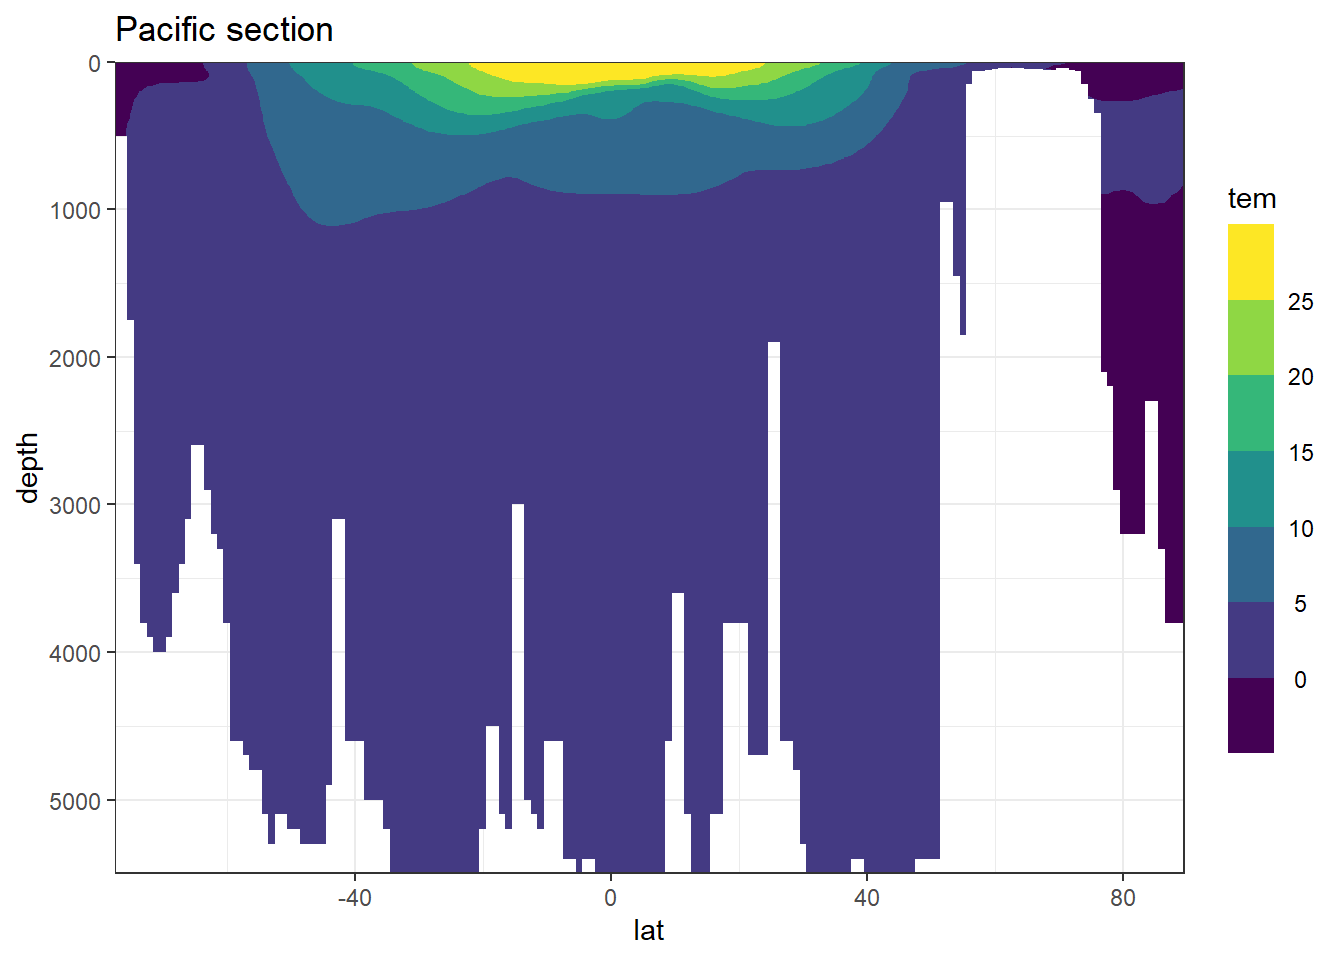
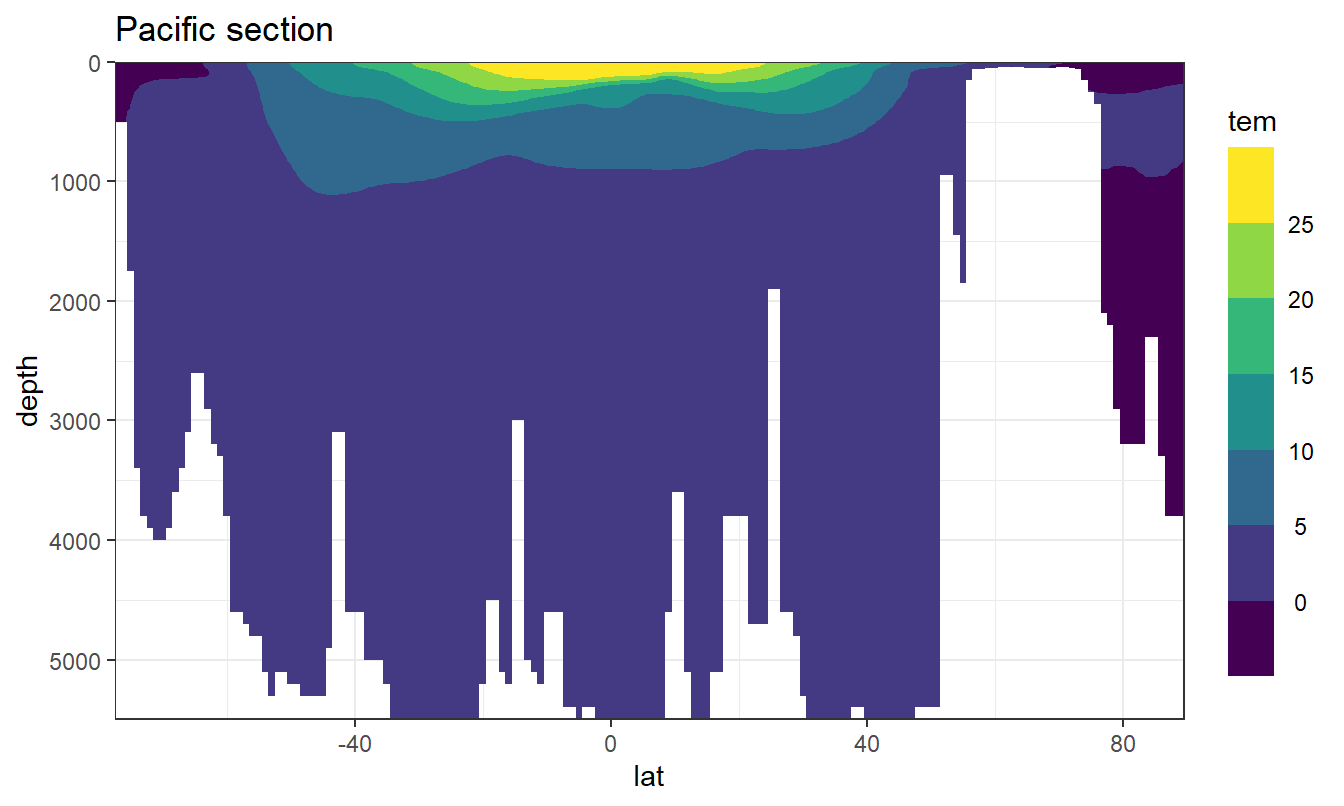
Build site.

diff --git a/docs/read_World_Ocean_Atlas_2018.html b/docs/read_World_Ocean_Atlas_2018.html
@@ -570,16 +570,16 @@ This reproducible <a href="http://rmarkdown.rstudio.com">R Markdown</a> analysis
 <div class="panel panel-default">
 <div class="panel-heading">
 <p class="panel-title">
-<a data-toggle="collapse" data-parent="#workflowr-checks" href="#strongRepositoryversionstrongahrefhttpsgithubcomjensdanielmuellerCanteMLRtreecfbc5e4befc91903529c86cd2367241f10a783datargetblankcfbc5e4a"> <span class="glyphicon glyphicon-ok text-success" aria-hidden="true"></span> <strong>Repository version:</strong> <a href="https://github.com/jens-daniel-mueller/Cant_eMLR/tree/cfbc5e4befc91903529c86cd2367241f10a783da" target="_blank">cfbc5e4</a> </a>
+<a data-toggle="collapse" data-parent="#workflowr-checks" href="#strongRepositoryversionstrongahrefhttpsgithubcomjensdanielmuellerCanteMLRtree5d4598160dff9ddc8596674983c74e0680c9ce62targetblank5d45981a"> <span class="glyphicon glyphicon-ok text-success" aria-hidden="true"></span> <strong>Repository version:</strong> <a href="https://github.com/jens-daniel-mueller/Cant_eMLR/tree/5d4598160dff9ddc8596674983c74e0680c9ce62" target="_blank">5d45981</a> </a>
 </p>
 </div>
[2 lines of base64/hex data omitted]
 <div class="panel-body">
 <p>
 Great! You are using Git for version control. Tracking code development and connecting the code version to the results is critical for reproducibility.
 </p>
 <p>
-The results in this page were generated with repository version <a href="https://github.com/jens-daniel-mueller/Cant_eMLR/tree/cfbc5e4befc91903529c86cd2367241f10a783da" target="_blank">cfbc5e4</a>. See the <em>Past versions</em> tab to see a history of the changes made to the R Markdown and HTML files.
+The results in this page were generated with repository version <a href="https://github.com/jens-daniel-mueller/Cant_eMLR/tree/5d4598160dff9ddc8596674983c74e0680c9ce62" target="_blank">5d45981</a>. See the <em>Past versions</em> tab to see a history of the changes made to the R Markdown and HTML files.
 </p>
 <p>
 Note that you need to be careful to ensure that all relevant files for the analysis have been committed to Git prior to generating the results (you can use <code>wflow_publish</code> or <code>wflow_git_commit</code>). workflowr only checks the R Markdown file, but you know if there are other scripts or data files that it depends on. Below is the status of the Git repository when the results were generated:
@@ -643,6 +643,40 @@ Message
 </tr>
 </thead>
 <tbody>
+<tr>
+<td>
+Rmd
+</td>
+<td>
+<a href="https://github.com/jens-daniel-mueller/Cant_eMLR/blob/5d4598160dff9ddc8596674983c74e0680c9ce62/analysis/read_World_Ocean_Atlas_2018.Rmd" target="_blank">5d45981</a>
+</td>
+<td>
+jens-daniel-mueller
+</td>
+<td>
+2020-08-11
+</td>
+<td>
+plot sal sections from function both basins
+</td>
+</tr>
+<tr>
+<td>
+html
+</td>
+<td>
+<a href="https://rawcdn.githack.com/jens-daniel-mueller/Cant_eMLR/495debba777d653e30a3059e54b0a2686b9c7ae2/docs/read_World_Ocean_Atlas_2018.html" target="_blank">495debb</a>
+</td>
+<td>
+jens-daniel-mueller
+</td>
+<td>
+2020-08-11
+</td>
+<td>
+Build site.
+</td>
+</tr>
 <tr>
 <td>
 Rmd
@@ -1882,16 +1916,8 @@ rm(WOA_sal, WOA_tem)</code></pre>
 map_climatology(WOA_tem_tibble, &quot;tem&quot;)</code></pre>
 <p><img src="figure/read_World_Ocean_Atlas_2018.Rmd/temperature_surface_WOA18_map-1.png" width="672" style="display: block; margin: auto;" /></p>
 </div>
-<div id="section" class="section level3">
-<h3><span class="header-section-number">3.2.2</span> Section</h3>
-<pre class="r"><code>WOA_tem_tibble %&gt;% 
-  filter(lon == parameters$lon_Atl_section) %&gt;% 
-  ggplot(aes(lat, depth, z = tem)) +
-  geom_contour_filled() +
-  scale_y_reverse() +
-  coord_cartesian(expand = 0) +
-  theme(legend.position = &quot;top&quot;)</code></pre>
-<p><img src="figure/read_World_Ocean_Atlas_2018.Rmd/temperature_section_WOA18_map-1.png" width="672" style="display: block; margin: auto;" /></p>
+<div id="sections" class="section level3">
+<h3><span class="header-section-number">3.2.2</span> Sections</h3>
 <pre class="r"><code>section_climatology_Atl(WOA_tem_tibble, &quot;tem&quot;)</code></pre>
 <p><img src="figure/read_World_Ocean_Atlas_2018.Rmd/temperature_section_WOA18_Atl-1.png" width="672" style="display: block; margin: auto;" /></p>
 <pre class="r"><code>section_climatology_Pac(WOA_tem_tibble, &quot;tem&quot;)</code></pre>
@@ -1905,16 +1931,12 @@ map_climatology(WOA_tem_tibble, &quot;tem&quot;)</code></pre>
 <pre class="r"><code>map_climatology(WOA_sal_tibble, &quot;sal&quot;)</code></pre>
 <p><img src="figure/read_World_Ocean_Atlas_2018.Rmd/salinity_surface_WOA18_map-1.png" width="672" style="display: block; margin: auto;" /></p>
 </div>
-<div id="section-1" class="section level3">
-<h3><span class="header-section-number">3.3.2</span> Section</h3>
-<pre class="r"><code>WOA_sal_tibble %&gt;% 
-  filter(lon == parameters$lon_Atl_section) %&gt;% 
-  ggplot(aes(lat, depth, z = sal)) +
-  geom_contour_filled() +
-  scale_y_reverse() +
-  coord_cartesian(expand = 0) +
-  theme(legend.position = &quot;top&quot;)</code></pre>
-<p><img src="figure/read_World_Ocean_Atlas_2018.Rmd/salinity_section_WOA18_map-1.png" width="672" style="display: block; margin: auto;" /></p>
+<div id="sections-1" class="section level3">
+<h3><span class="header-section-number">3.3.2</span> Sections</h3>
+<pre class="r"><code>section_climatology_Atl(WOA_sal_tibble, &quot;sal&quot;)</code></pre>
+<p><img src="figure/read_World_Ocean_Atlas_2018.Rmd/salinity_section_WOA18_Atl-1.png" width="672" style="display: block; margin: auto;" /></p>
+<pre class="r"><code>section_climatology_Pac(WOA_sal_tibble, &quot;sal&quot;)</code></pre>
+<p><img src="figure/read_World_Ocean_Atlas_2018.Rmd/salinity_section_WOA18_Pac-1.png" width="672" style="display: block; margin: auto;" /></p>
 </div>
 </div>
 <div id="write-file" class="section level2">
